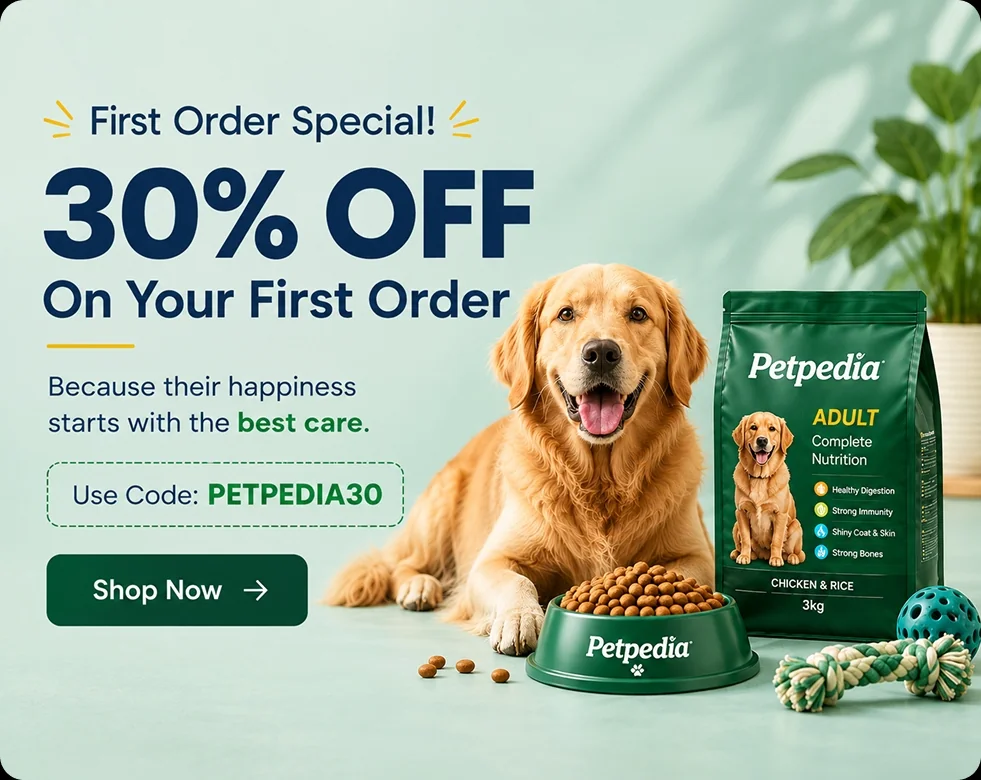
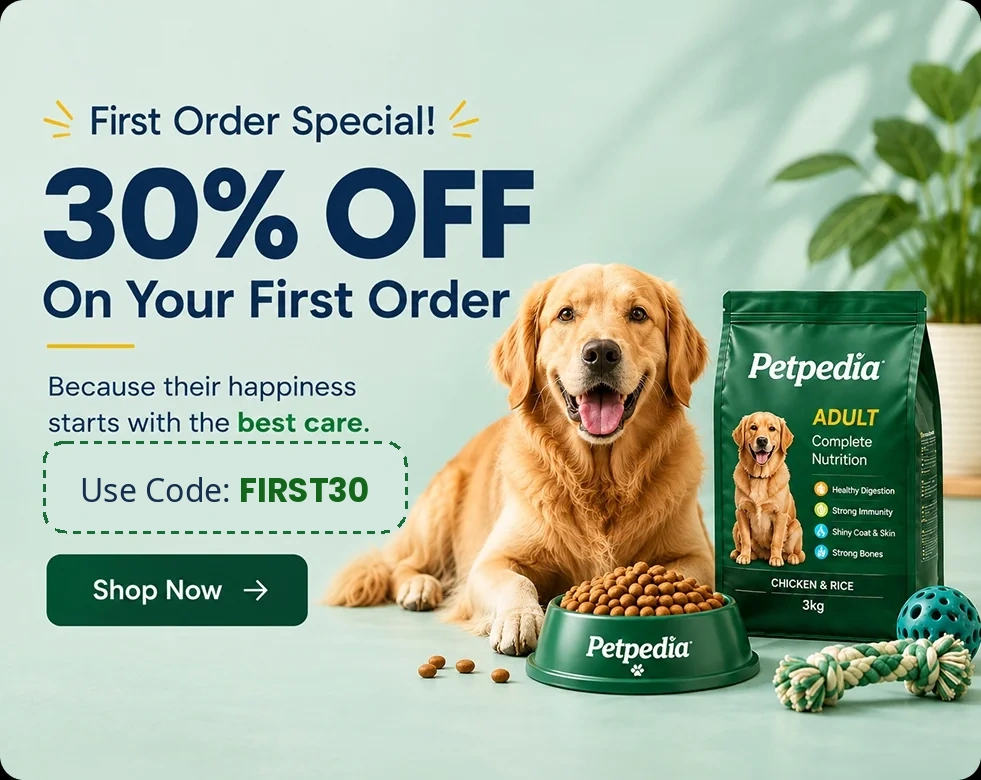
fix(admin): resolve production admin login lockout and update FIRST30 discount support

Changed region(s): [[0.0306, 0.5846, 0.4281, 0.6769]]

diff --git a/src/context/CartContext.tsx b/src/context/CartContext.tsx
@@ -323,7 +323,20 @@ export function CartProvider({ children }: { children: ReactNode }) {
         if (updated) setCart(updated);
       } else {
         // Mock coupon effect
-        if (code.toUpperCase() === "GET10" || code.toUpperCase() === "PET10") {
+        const upper = code.trim().toUpperCase();
+        if (upper === "FIRST30" || upper === "WELCOME30") {
+          const items = [...cart.items];
+          const subtotal = items.reduce((acc, it) => acc + it.price * it.quantity, 0);
+          const discount = Math.round(subtotal * 0.3);
+          const tax = Math.round((subtotal - discount) * 0.05);
+          setCart({
+            ...cart,
+            subtotal,
+            tax,
+            total: Math.max(0, subtotal - discount + tax),
+            discountCodes: [upper],
+          });
+        } else if (upper === "GET10" || upper === "PET10" || upper === "WELCOME10") {
           const items = [...cart.items];
           const subtotal = items.reduce((acc, it) => acc + it.price * it.quantity, 0);
           const discount = Math.round(subtotal * 0.1);
@@ -333,7 +346,7 @@ export function CartProvider({ children }: { children: ReactNode }) {
             subtotal,
             tax,
             total: Math.max(0, subtotal - discount + tax),
-            discountCodes: [code.toUpperCase()],
+            discountCodes: [upper],
           });
         }
       }

diff --git a/src/lib/admin/auth.ts b/src/lib/admin/auth.ts
@@ -172,17 +172,6 @@ export const loginAdminFn = createServerFn({ method: "POST" })
       };
     }
 
-    if (
-      typeof process !== "undefined" &&
-      process?.env?.["NODE_ENV"] === "production" &&
-      (adminPasscode === "admin2026" || adminPasscode.length < 12)
-    ) {
-      return {
-        success: false,
-        error:
-          "CRITICAL SECURITY CONFIGURATION ERROR: Default or weak ADMIN_PASSCODE cannot be used in production. Please set a strong, rotated passcode in your environment variables.",
-      };
-    }
 
     const cleanPasscode = (data.passcode || "").trim();
     if (!timingSafeCompare(cleanPasscode, adminPasscode)) {

diff --git a/src/lib/customer/checkout.ts b/src/lib/customer/checkout.ts
@@ -180,7 +180,10 @@ export function calculateAuthoritativeDiscount(
   if (!couponCode || !couponCode.trim()) return 0;
   const code = couponCode.trim().toUpperCase();
 
-  if (code === "PET10" || code === "WELCOME10" || code === "SAVE10" || code === "FASTRR10") {
+  if (code === "FIRST30" || code === "WELCOME30") {
+    return Math.round(subtotal * 0.3);
+  }
+  if (code === "GET10" || code === "PET10" || code === "WELCOME10" || code === "SAVE10" || code === "FASTRR10") {
     return Math.round(subtotal * 0.1);
   }
   if (code === "PET20" || code === "SAVE20") {

diff --git a/src/components/home/HeroCarousel.tsx b/src/components/home/HeroCarousel.tsx
@@ -35,7 +35,7 @@ const SLIDES = [
   {
     image: heroBanner3,
     mobileImage: heroBanner3Mob,
-    alt: "First Order Special - 30% OFF On Your First Order - Code: PETPEDIA30",
+    alt: "First Order Special - 30% OFF On Your First Order - Code: FIRST30",
     link: "/shop",
     btnText: "Shop Now",
     btnClass: "bg-[#059669] text-white hover:bg-[#047857] shadow-[0_4px_16px_rgba(5,150,105,0.35)]",

diff --git a/src/routes/admin.login.tsx b/src/routes/admin.login.tsx
@@ -57,7 +57,8 @@ function AdminLoginPage() {
     try {
       const res = await loginAdminFn({ data: { passcode } });
       if (res.success) {
-        router.navigate({ to: "/admin" });
+        await router.invalidate();
+        await router.navigate({ to: "/admin" });
       } else {
         setError(res.error || "Incorrect passcode.");
       }
